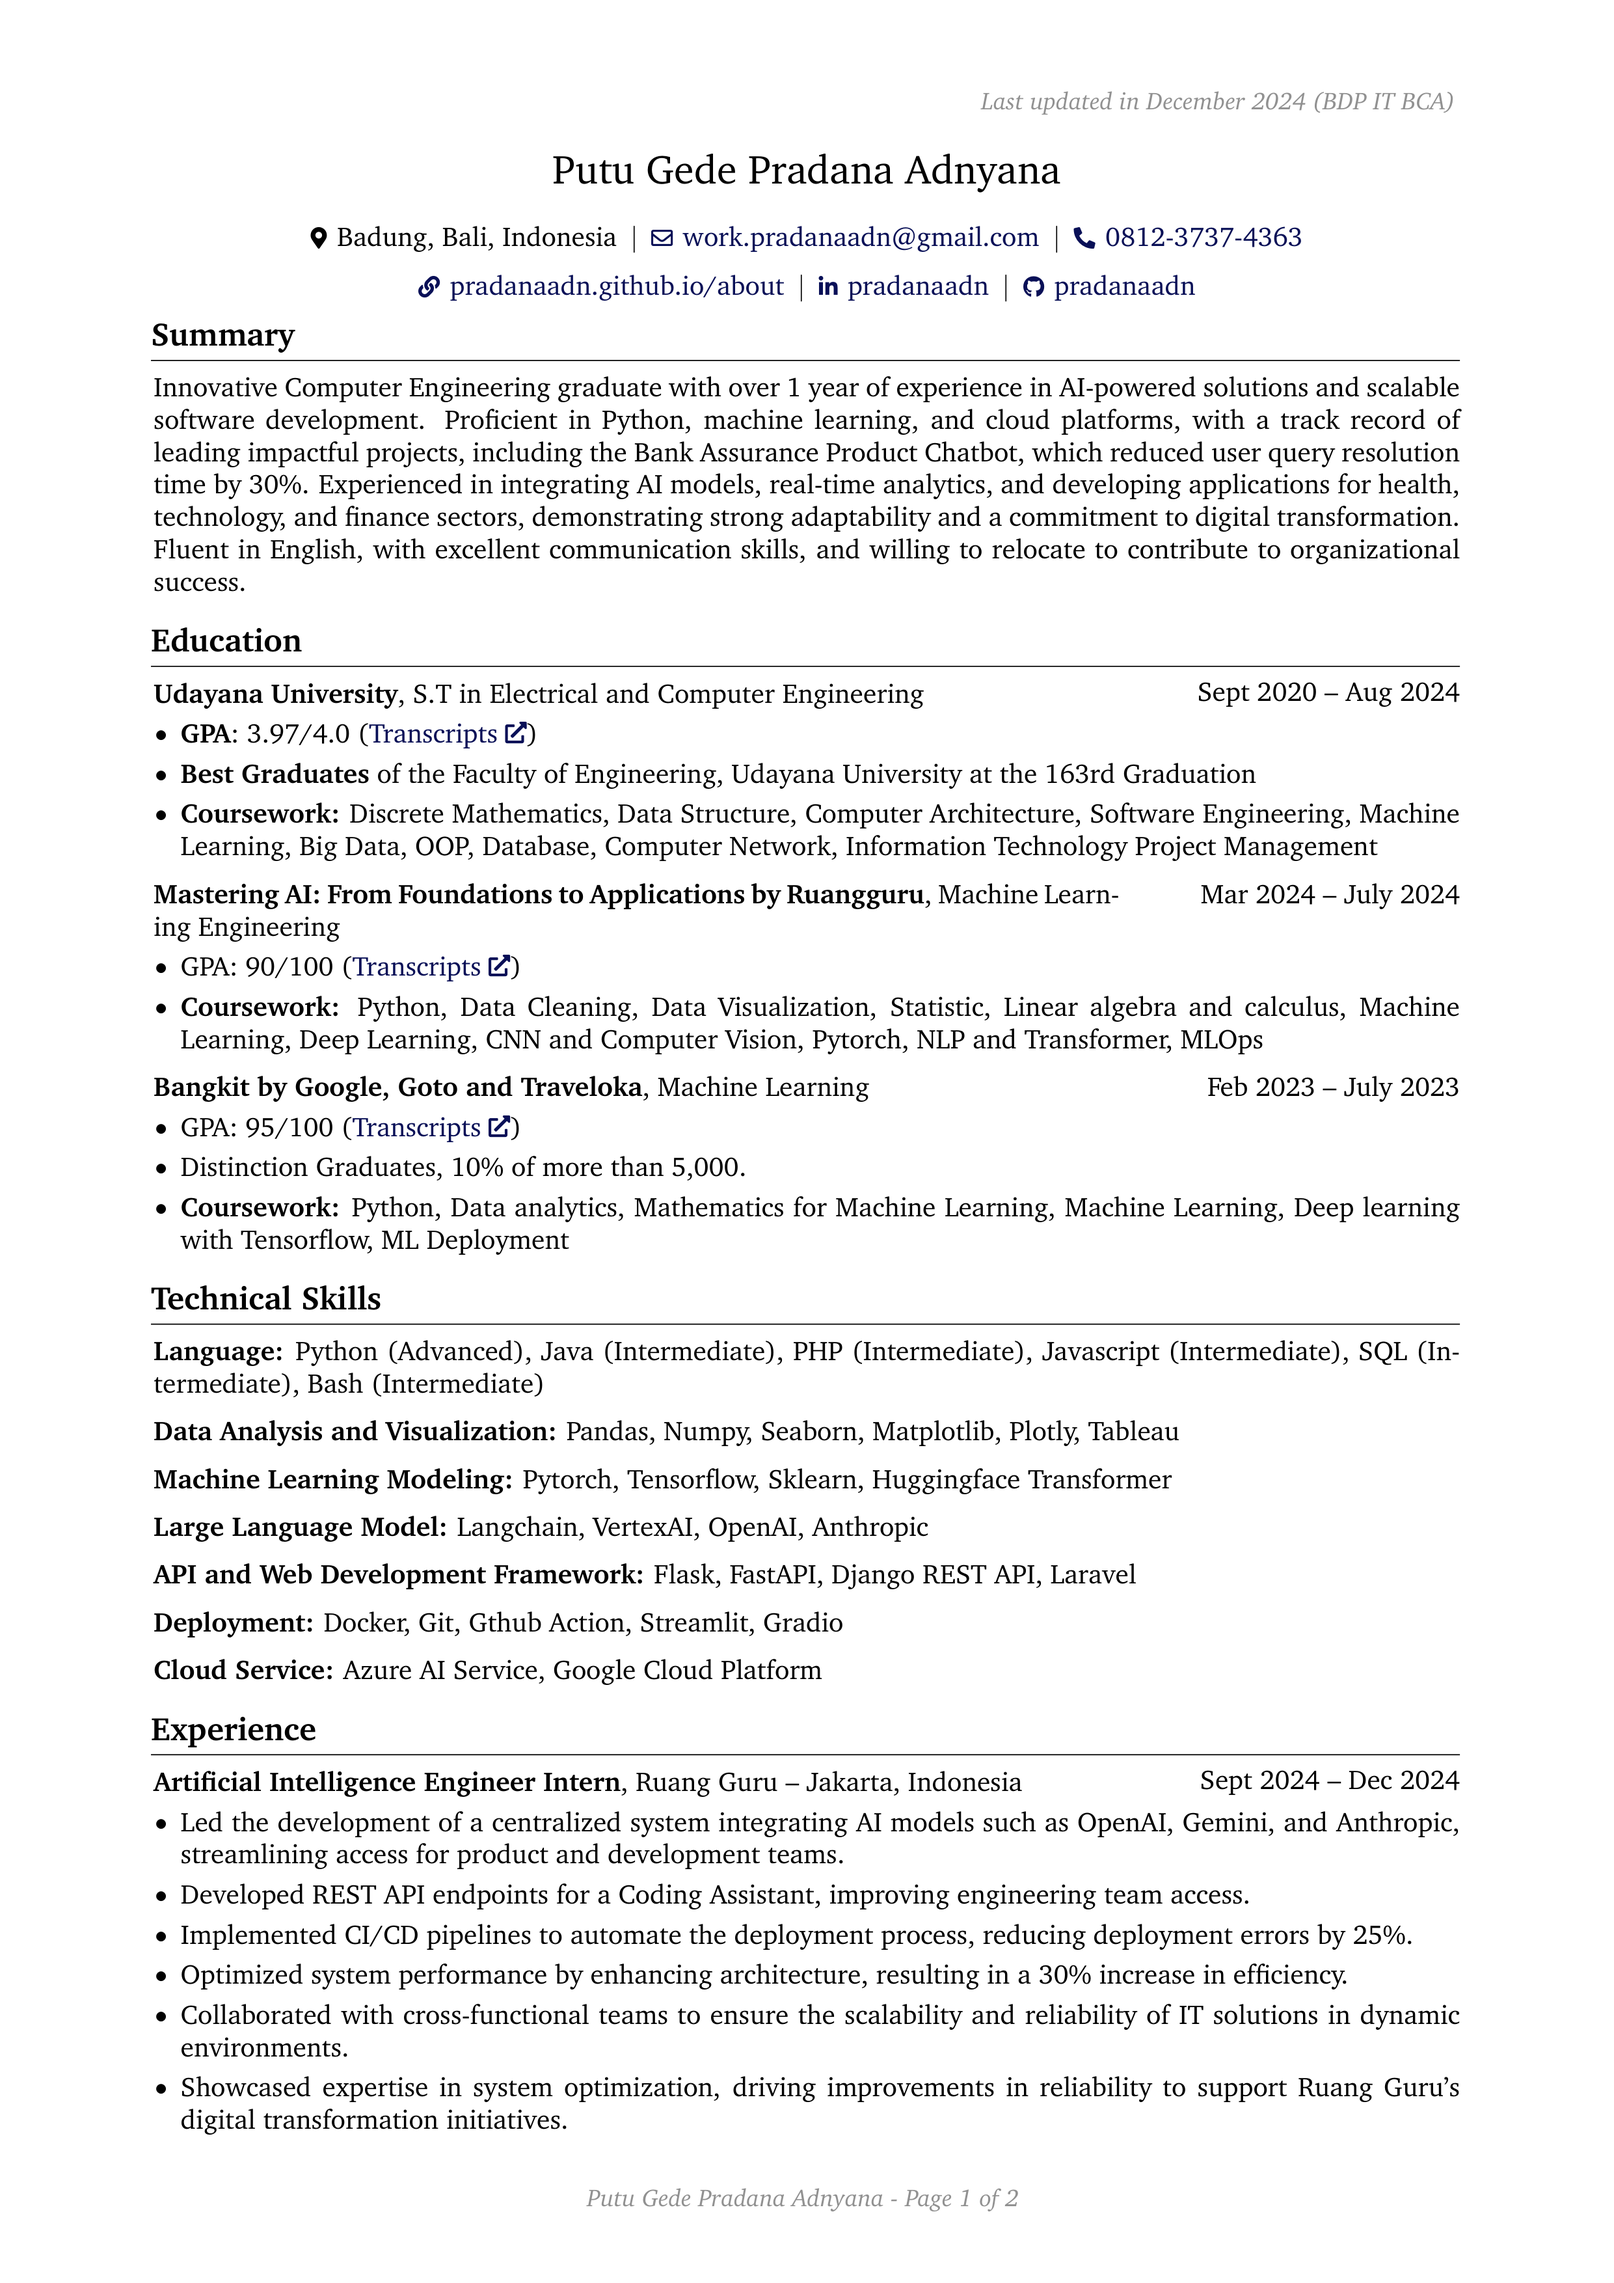
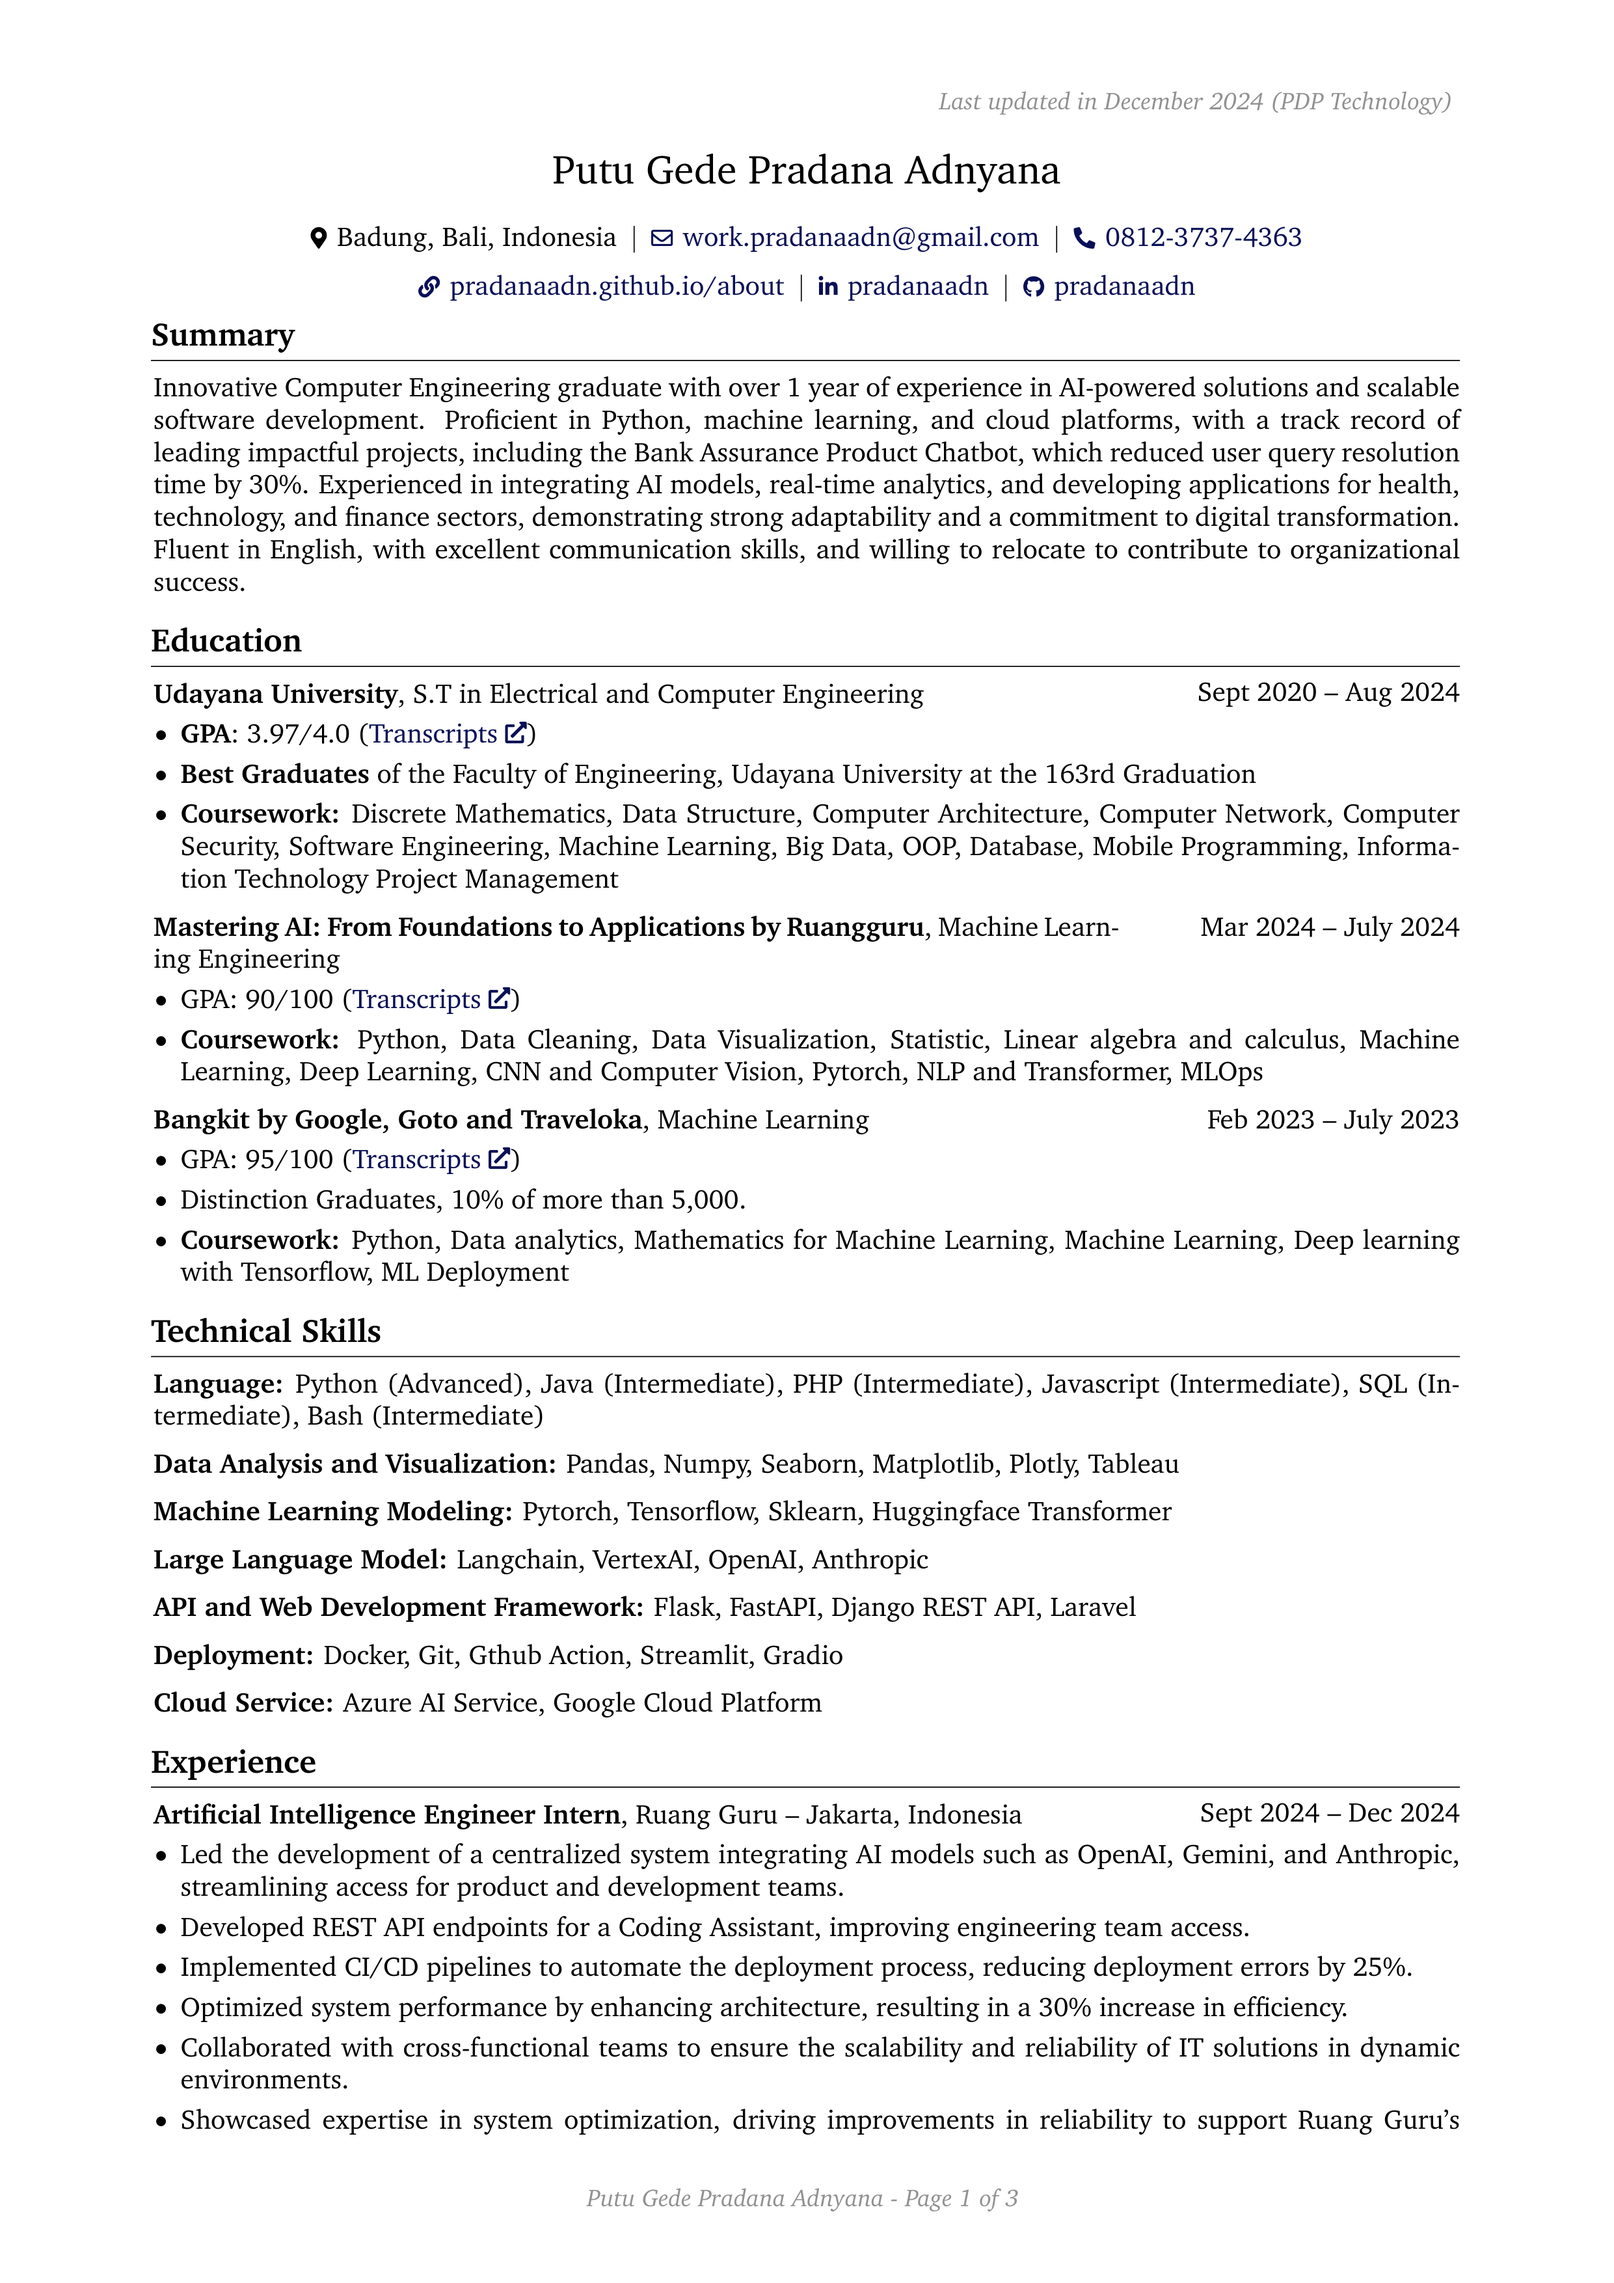
update: pdp

Changed region(s): [[0.0931, 0.3418, 0.9, 0.9322], [0.7449, 0.0311, 0.9, 0.0621], [0.6207, 0.0311, 0.6828, 0.0621]]

diff --git a/rendercv_output/Putu_Gede_Pradana_Adnyana_CV.html b/rendercv_output/Putu_Gede_Pradana_Adnyana_CV.html
@@ -48,7 +48,7 @@
         <li>Sept 2020 – Aug 2024</li>
         <li><strong>GPA</strong>: 3.97/4.0 (<a href="https://drive.google.com/file/d/1pP8v7Sbi2i_VDCOLNyjXUbzSdkNwGF2a/view?usp=sharing">Transcripts</a>)</li>
         <li><strong>Best Graduates</strong> of the Faculty of Engineering, Udayana University at the 163rd Graduation</li>
-        <li><strong>Coursework:</strong> Discrete Mathematics, Data Structure, Computer Architecture, Software Engineering, Machine Learning, Big Data, OOP, Database, Computer Network, Information Technology Project Management</li>
+        <li><strong>Coursework:</strong> Discrete Mathematics, Data Structure, Computer Architecture, Computer Network, Computer Security,  Software Engineering, Machine Learning, Big Data, OOP, Database, Mobile Programming, Information Technology Project Management</li>
         </ul>
         <h2>Mastering AI: From Foundations to Applications by Ruangguru, Machine Learning Engineering</h2>
         <ul>
@@ -89,7 +89,7 @@
         <ul>
         <li>Aug 2024 – Aug 2024</li>
         <li>Jakarta, Indonesia</li>
-        <li>Contributed to the integration of RTSP cameras and optimized multithreaded data processing using CUDA, improving system performance by 40% and enabling real-time analytics.</li>
+        <li>Contributed to the integration of RTSP cameras and optimized multithreaded data processing using CUDA, increasing system performance by 40% and ensuring real-time analytics for scalable monitoring solutions.</li>
         <li>Led research on deploying YOLO models on Jetson Nano for object detection, enhancing speed and accuracy in AI-driven solutions.</li>
         <li>Configured MQTT protocols and integrated them with ThingsBoard, ensuring seamless data communication and system reliability.</li>
         <li>Improved scalability of monitoring systems through optimized architecture and AI deployment strategies.</li>

diff --git a/rendercv_output/Putu_Gede_Pradana_Adnyana_CV.tex b/rendercv_output/Putu_Gede_Pradana_Adnyana_CV.tex
@@ -145,7 +145,7 @@
         \LenToUnit{\paperwidth-2 cm-0 cm+0.05cm},
         \LenToUnit{\paperheight-1.0 cm}
     ){\vtop{{\null}\makebox[0pt][c]{
-        \small\color{gray}\textit{Last updated in December 2024 (BDP IT BCA)}\hspace{\widthof{Last updated in December 2024 (BDP IT BCA)}}
+        \small\color{gray}\textit{Last updated in December 2024 (PDP Technology)}\hspace{\widthof{Last updated in December 2024 (PDP Technology)}}
     }}}%
   }%
 }%
@@ -224,7 +224,7 @@
             \begin{highlights}
                 \item \textbf{GPA}: 3.97/4.0 (\href{https://drive.google.com/file/d/1pP8v7Sbi2i_VDCOLNyjXUbzSdkNwGF2a/view?usp=sharing}{Transcripts})
                 \item \textbf{Best Graduates} of the Faculty of Engineering, Udayana University at the 163rd Graduation
-                \item \textbf{Coursework:} Discrete Mathematics, Data Structure, Computer Architecture, Software Engineering, Machine Learning, Big Data, OOP, Database, Computer Network, Information Technology Project Management
+                \item \textbf{Coursework:} Discrete Mathematics, Data Structure, Computer Architecture, Computer Network, Computer Security,  Software Engineering, Machine Learning, Big Data, OOP, Database, Mobile Programming, Information Technology Project Management
             \end{highlights}
         \end{onecolentry}
 
@@ -344,7 +344,7 @@
         \vspace{0.10 cm}
         \begin{onecolentry}
             \begin{highlights}
-                \item Contributed to the integration of RTSP cameras and optimized multithreaded data processing using CUDA, improving system performance by 40\% and enabling real-time analytics.
+                \item Contributed to the integration of RTSP cameras and optimized multithreaded data processing using CUDA, increasing system performance by 40\% and ensuring real-time analytics for scalable monitoring solutions.
                 \item Led research on deploying YOLO models on Jetson Nano for object detection, enhancing speed and accuracy in AI-driven solutions.
                 \item Configured MQTT protocols and integrated them with ThingsBoard, ensuring seamless data communication and system reliability.
                 \item Improved scalability of monitoring systems through optimized architecture and AI deployment strategies.

diff --git a/rendercv_output/Putu_Gede_Pradana_Adnyana_CV.md b/rendercv_output/Putu_Gede_Pradana_Adnyana_CV.md
@@ -19,7 +19,7 @@ Innovative Computer Engineering graduate with over 1 year of experience in AI-po
 - Sept 2020 – Aug 2024
 - **GPA**: 3.97/4.0 ([Transcripts](https://drive.google.com/file/d/1pP8v7Sbi2i_VDCOLNyjXUbzSdkNwGF2a/view?usp=sharing))
 - **Best Graduates** of the Faculty of Engineering, Udayana University at the 163rd Graduation
-- **Coursework:** Discrete Mathematics, Data Structure, Computer Architecture, Software Engineering, Machine Learning, Big Data, OOP, Database, Computer Network, Information Technology Project Management
+- **Coursework:** Discrete Mathematics, Data Structure, Computer Architecture, Computer Network, Computer Security,  Software Engineering, Machine Learning, Big Data, OOP, Database, Mobile Programming, Information Technology Project Management
 
 ## Mastering AI: From Foundations to Applications by Ruangguru, Machine Learning Engineering
 
@@ -60,7 +60,7 @@ Innovative Computer Engineering graduate with over 1 year of experience in AI-po
 
 - Aug 2024 – Aug 2024
 - Jakarta, Indonesia
-- Contributed to the integration of RTSP cameras and optimized multithreaded data processing using CUDA, improving system performance by 40% and enabling real-time analytics.
+- Contributed to the integration of RTSP cameras and optimized multithreaded data processing using CUDA, increasing system performance by 40% and ensuring real-time analytics for scalable monitoring solutions.
 - Led research on deploying YOLO models on Jetson Nano for object detection, enhancing speed and accuracy in AI-driven solutions.
 - Configured MQTT protocols and integrated them with ThingsBoard, ensuring seamless data communication and system reliability.
 - Improved scalability of monitoring systems through optimized architecture and AI deployment strategies.
